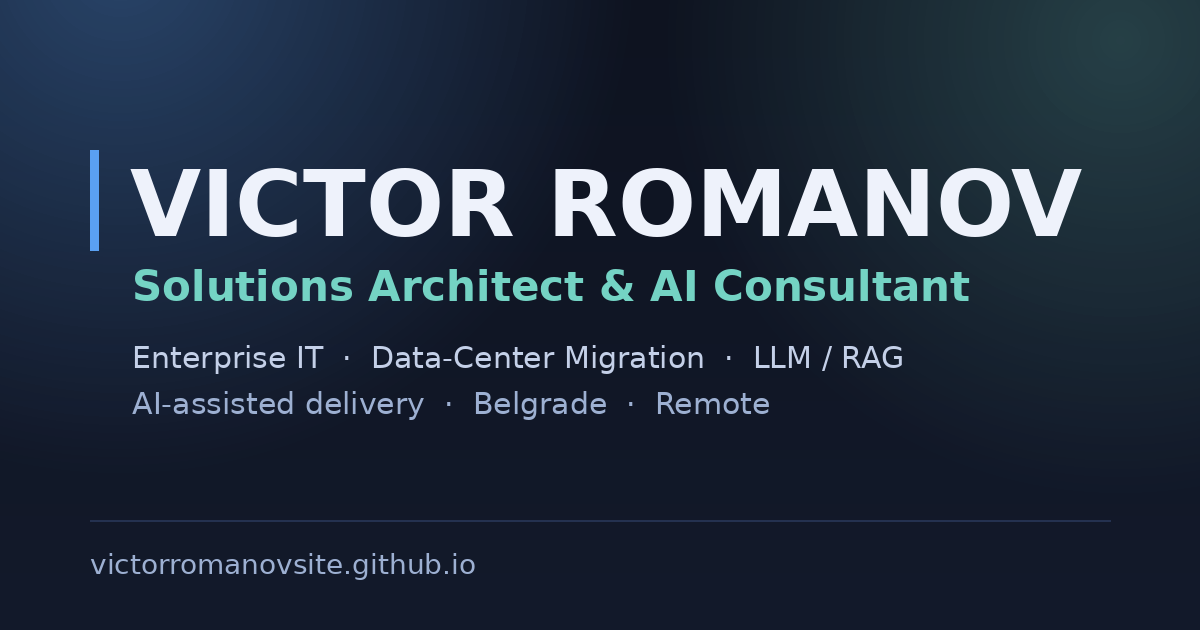
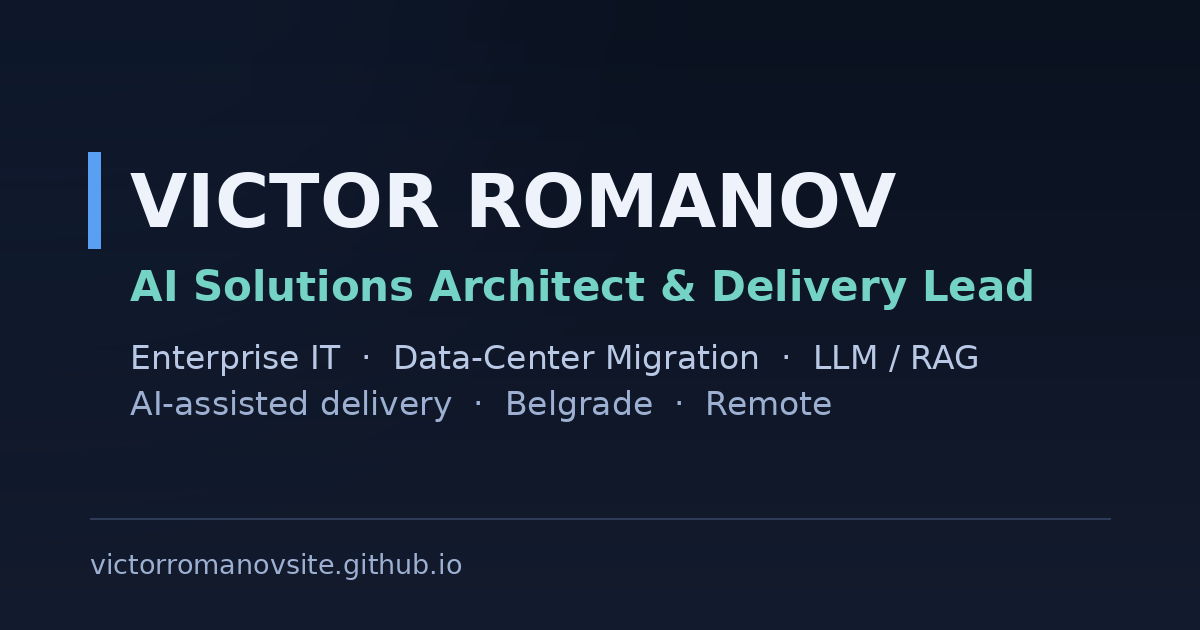
Update og-image to new title canon (v2)

diff --git a/index.html b/index.html
@@ -9,14 +9,14 @@
 <meta property="og:description" content="Enterprise IT leadership at scale meets modern AI delivery. Solution architecture, data-center migration, LLM/RAG. Belgrade · remote · open to relocation.">
 <meta property="og:type" content="website">
 <meta property="og:url" content="https://victorromanovsite.github.io/">
-<meta property="og:image" content="https://victorromanovsite.github.io/og-image.png?v=1">
+<meta property="og:image" content="https://victorromanovsite.github.io/og-image.png?v=2">
 <meta property="og:image:width" content="1200">
 <meta property="og:image:height" content="630">
 <meta property="og:image:alt" content="Victor Romanov — AI Solutions Architect & Delivery Lead. Enterprise IT, data-center migration, LLM/RAG.">
 <meta name="twitter:card" content="summary_large_image">
 <meta name="twitter:title" content="Victor Romanov — AI Solutions Architect & Delivery Lead">
 <meta name="twitter:description" content="Enterprise IT leadership at scale meets modern AI delivery. Solution architecture, data-center migration, LLM/RAG. Belgrade · remote · open to relocation.">
-<meta name="twitter:image" content="https://victorromanovsite.github.io/og-image.png?v=1">
+<meta name="twitter:image" content="https://victorromanovsite.github.io/og-image.png?v=2">
 <style>
   :root{
     --bg:#0e1320; --bg2:#131a2b; --panel:#161e30; --panel2:#1c2740;
